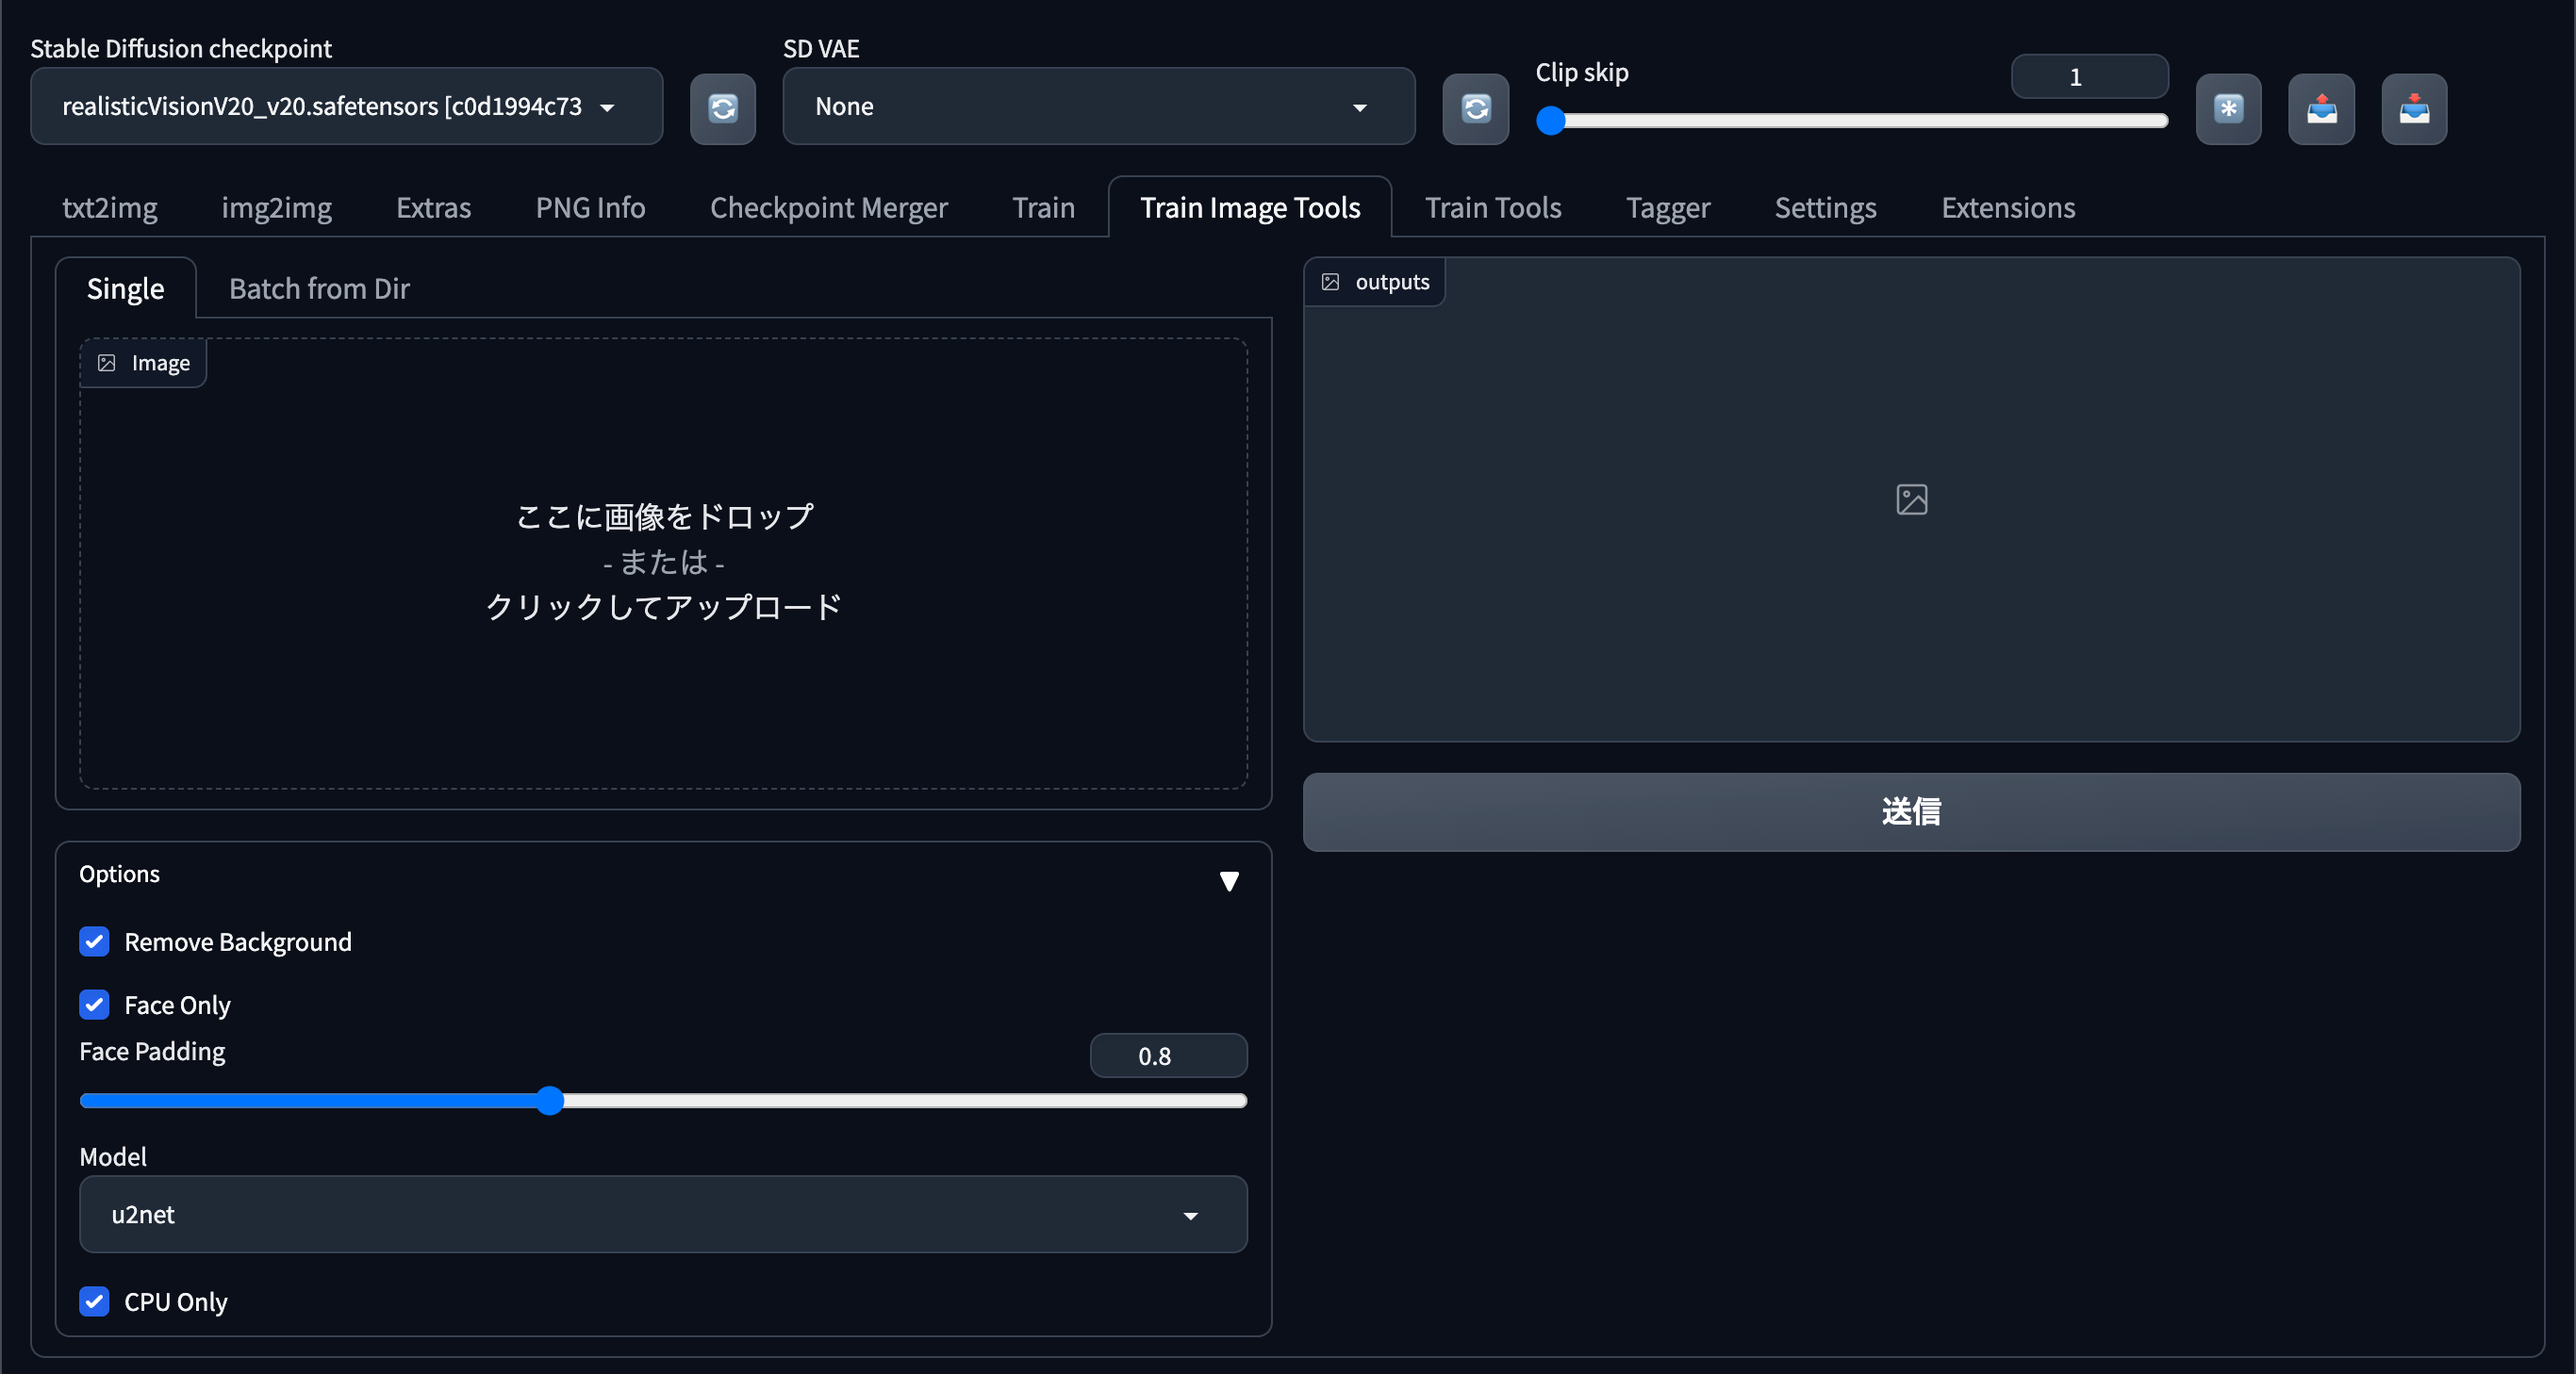
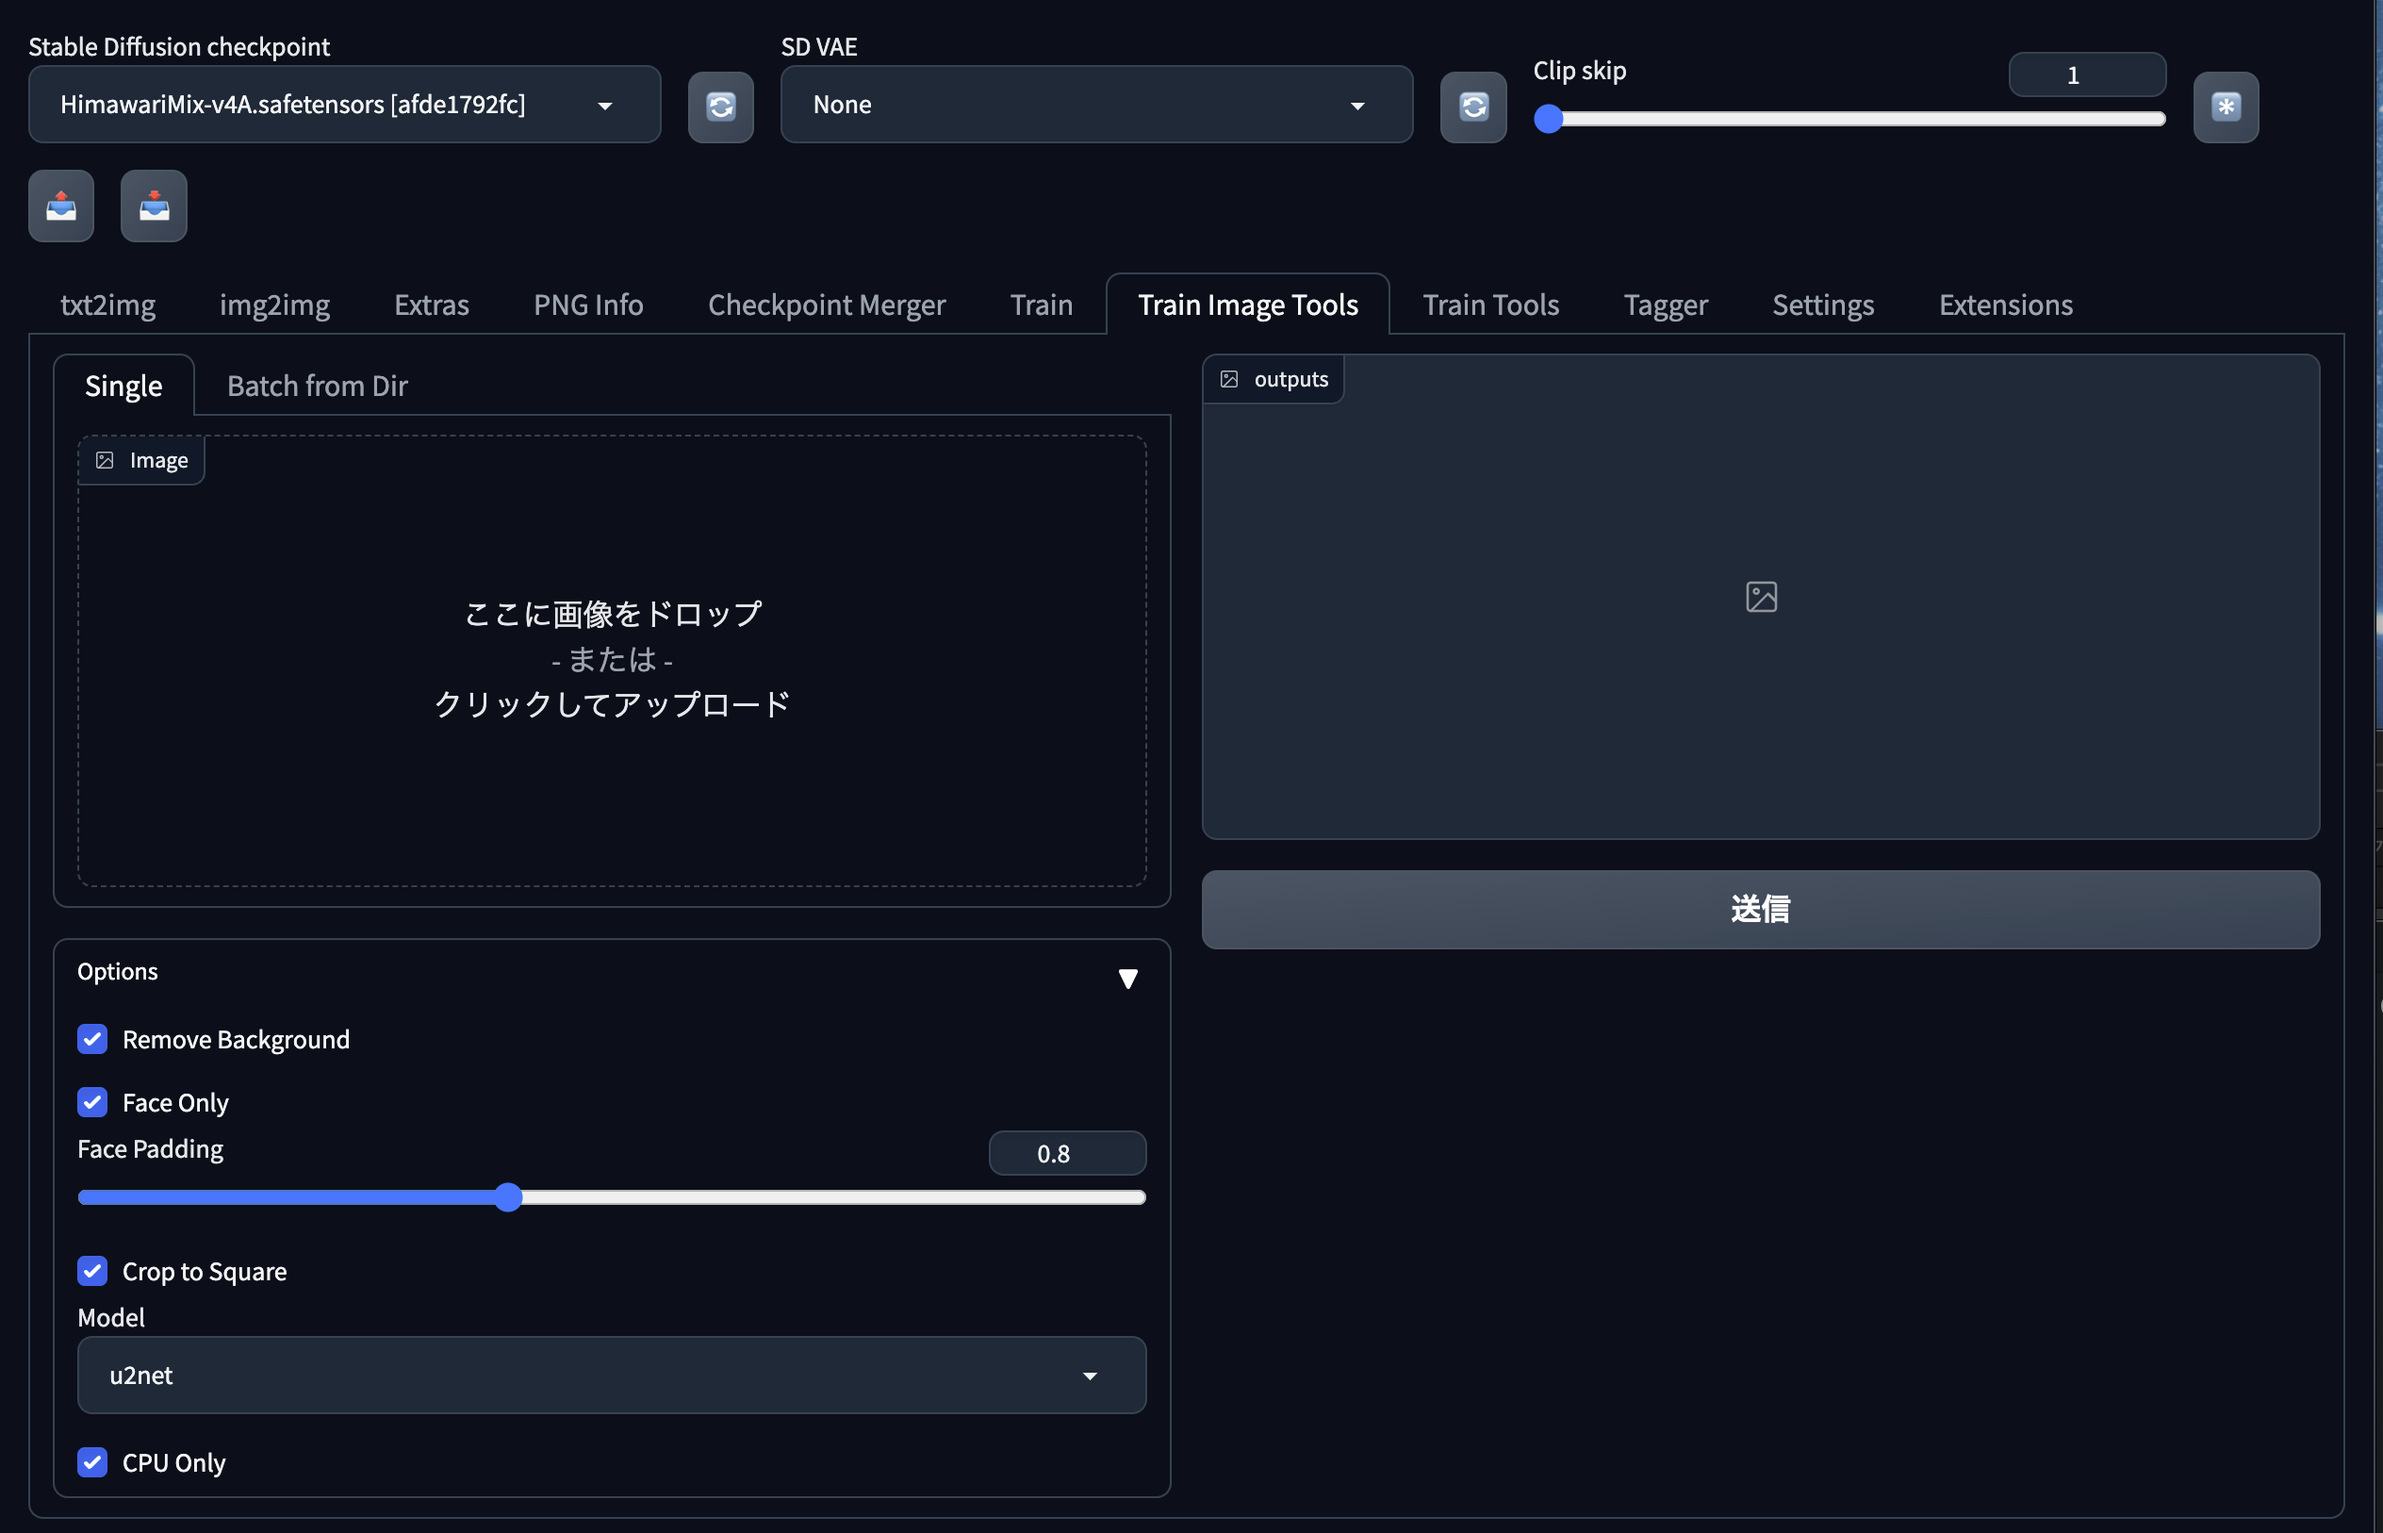
crop to squareのオプションを追加

diff --git a/scripts/extention.py b/scripts/extention.py
@@ -58,55 +58,97 @@ def save_image_dir(image, path, basename, extension='png'):
     return full_path
 
 
-def process_image(image, is_remove_bg, is_face_only, padding, model, is_cpu_only):
-    face_detector = dlib.get_frontal_face_detector()
-
-    session = None
+def remove_bg(image: Image, model: str, is_cpu_only: bool) -> Image:
     if is_cpu_only:
         session = cpu_session_factory.new_session(model)
     else:
         session = gpu_session_factory.new_session(model)
 
-    if is_remove_bg:
-        image = remove(image, session=session)
+    return remove(image, session=session)
 
+
+def trimming_face(image: Image, padding: float) -> list[Image]:
+    # convert to OpenCV format
     image = pil2cv(image)
-    result = []
+
+    face_detector = dlib.get_frontal_face_detector()
+    faces = face_detector(image, 1)
+
+    results = []
+    for i in range(0, len(faces)):
+        img_h, img_w, c = image.shape
+        face_h = int(faces[i].bottom() - faces[i].top())
+        face_w = int(faces[i].right() - faces[i].left())
+
+        rect_top = int(faces[i].top()) - (face_h * padding)
+        if rect_top < 0:
+            rect_top = 0
+        rect_bottom = int(faces[i].bottom()) + (face_h * padding)
+        if rect_bottom > img_h:
+            rect_bottom = img_h
+        rect_left = int(faces[i].left()) - (face_w * padding)
+        if rect_left < 0:
+            rect_left = 0
+        rect_right = int(faces[i].right()) + (face_w * padding)
+        if rect_right > img_w:
+            rect_right = img_w
+
+        face_img = image[int(rect_top):int(rect_bottom), int(rect_left):int(rect_right)]
+
+        # convert to PIL format
+        face_img = cv2pil(face_img)
+
+        results.append(face_img)
+
+    return results
+
+
+def crop_to_square(image: Image) -> Image:
+    width, height = image.size
+    square_size = min(image.size)
+
+    if width > height:
+        top = 0
+        bottom = square_size
+        left = (width - square_size) / 2
+        right = left + square_size
+        box = (left, top, right, bottom)
+    else:
+        left = 0
+        right = square_size
+        top = (height - square_size) / 2
+        bottom = top + square_size
+        box = (left, top, right, bottom)
+
+    return image.crop(box)
+
+
+def process_image(
+        image: Image, is_remove_bg: bool, is_face_only: bool, is_crop: bool,
+        padding: float, model: str, is_cpu_only: bool):
+    processed = []
+
+    if is_remove_bg:
+        image = remove_bg(image, model, is_cpu_only)
 
     if is_face_only:
-        faces = face_detector(image, 1)
-        if len(faces) > 0:
-            for i in range(0, len(faces)):
-                img_h, img_w, c = image.shape
-                face_h = int(faces[i].bottom() - faces[i].top())
-                face_w = int(faces[i].right() - faces[i].left())
-
-                rect_top = int(faces[i].top()) - (face_h * padding)
-                if rect_top < 0:
-                    rect_top = 0
-                rect_bottom = int(faces[i].bottom()) + (face_h * padding)
-                if rect_bottom > img_h:
-                    rect_bottom = img_h
-                rect_left = int(faces[i].left()) - (face_w * padding)
-                if rect_left < 0:
-                    rect_left = 0
-                rect_right = int(faces[i].right()) + (face_w * padding)
-                if rect_right > img_w:
-                    rect_right = img_w
-
-                face_img = image[int(rect_top):int(rect_bottom), int(rect_left):int(rect_right)]
-                result.append(cv2pil(face_img))
-
+        processed.extend(trimming_face(image, padding))
     else:
-        result.append(cv2pil(image))
+        processed.append(image)
 
-    return result
+    if is_crop:
+        tmp = []
+        for img in processed:
+            tmp.append(crop_to_square(img))
+        processed = tmp
+
+    return processed
 
 
-def processing(single_image, input_dir, output_dir, show_result, input_tab_state, is_remove_bg, is_face_only, padding, model, is_cpu_only):
+def processing(single_image, input_dir, output_dir, show_result, input_tab_state, is_remove_bg, is_face_only, is_crop, padding, model, is_cpu_only):
     # 0: single
     if input_tab_state == 0:
-        processed = process_image(single_image, is_remove_bg, is_face_only, padding, model, is_cpu_only)
+        processed = process_image(single_image, is_remove_bg, is_face_only, is_crop, padding, model, is_cpu_only)
         return processed
 
     elif input_tab_state == 2:
@@ -117,8 +159,9 @@ def processing(single_image, input_dir, output_dir, show_result, input_tab_state
                 image = Image.open(f)
             except Exception:
                 continue
+            print(f)
 
-            imgs = process_image(image, is_remove_bg, is_face_only, padding, model, is_cpu_only)
+            imgs = process_image(image, is_remove_bg, is_face_only, is_crop, padding, model, is_cpu_only)
             processed.extend(imgs)
 
             if output_dir != "":
@@ -155,6 +198,7 @@ def on_ui_tabs():
                     is_remove_bg = gr.Checkbox(label="Remove Background", show_label=True, value=True)
                     is_face_only = gr.Checkbox(label="Face Only", show_label=True, value=True)
                     padding = gr.Slider(0.0, 2.0, value=0.8, step=0.1, label="Face Padding", show_label=True)
+                    is_crop = gr.Checkbox(label="Crop to Square", show_label=True, value=True)
                     model = gr.Dropdown(seg_models, label="Model", value="u2net")
                     is_cpu_only = gr.Checkbox(label="CPU Only", show_label=True, value=True)
             with gr.Column():
@@ -167,12 +211,10 @@ def on_ui_tabs():
                 submit.click(
                     processing,
                     inputs=[single_image, input_dir, output_dir, show_result, input_tab_state,
-                            is_remove_bg, is_face_only, padding, model, is_cpu_only],
+                            is_remove_bg, is_face_only, is_crop, padding, model, is_cpu_only],
                     outputs=gallery
                 )
 
-            # TODO: ここにコンポーネント/処理を足していく (cf. https://gradio.app/docs/#components)
         return [(ui_component, "Train Image Tools", "loratools")]
 
-# 作成したコンポーネントをwebuiに登録
 script_callbacks.on_ui_tabs(on_ui_tabs)

diff --git a/README.md b/README.md
@@ -13,6 +13,9 @@
 ### Face Padding
 検出した顔を切り出す際の余白部分のサイズです。
 
+### Crop to Square
+画像を正方形になるようにクロップします。
+
 ### Model
 背景を削除する際のモデルを指定します。
 
